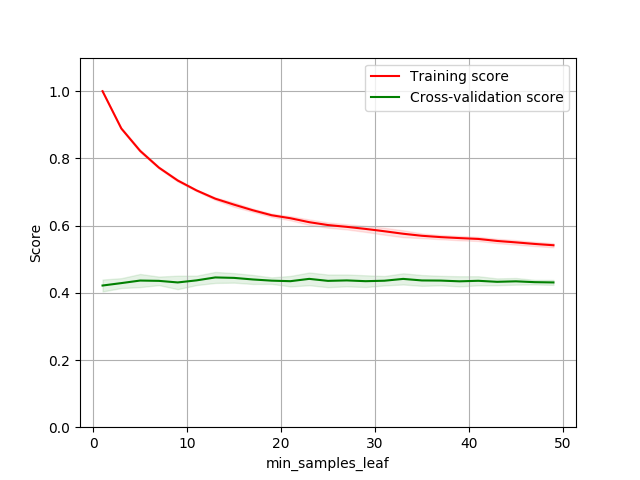
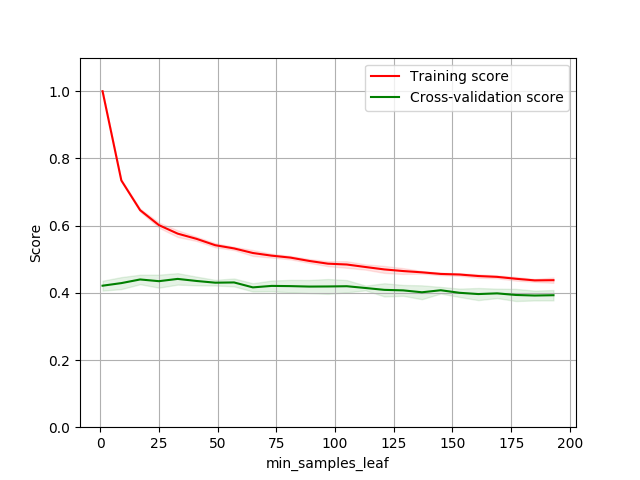
sfdf

diff --git a/HW_1/DT_HW1.py b/HW_1/DT_HW1.py
@@ -527,7 +527,7 @@ def decision_tree_vld_curve_1(dataset_name, X_train, y_train, min_samples_leaf=2
     start_time = time.time()
     cv = ShuffleSplit(n_splits=10, test_size=0.2, random_state=0)
     # cv = 10
-    param_range = range(1, 50, 2)
+    param_range = range(1, 200, 8)
     train_scores, test_scores = validation_curve(clf, X_train, y_train,
                                                  param_name="min_samples_leaf",
                                                  param_range=param_range,
@@ -570,7 +570,7 @@ def boost_dt_vld_curve_1(dataset_name, X_train, y_train, min_samples_leaf=25, n_
     # cv = None
     param_range = []
     alter_list = []
-    for i in range(1, 50, 2):
+    for i in range(1, 200, 8):
         param_range.append(tree.DecisionTreeClassifier(criterion='gini', min_samples_leaf=i))
         alter_list.append(i)
     # print param_range
@@ -616,7 +616,7 @@ def ann_vld_curve_1(dataset_name, X_train, y_train, hidden_layer_sizes=(5, ), ma
     # cv = None
     param_range = []
     alter_list = []
-    for i in range(1,120,5):
+    for i in range(1,1000,50):
         param_range.append((i,))
         alter_list.append(i)
     train_scores, test_scores = validation_curve(clf, X_train, y_train,
@@ -638,7 +638,7 @@ def ann_vld_curve_2(dataset_name, X_train, y_train, hidden_layer_sizes=(5, ), ma
     start_time = time.time()
     cv = ShuffleSplit(n_splits=10, test_size=0.2, random_state=0)
     # cv = 5
-    param_range = np.linspace(0.00001, 10, 25)
+    param_range = np.linspace(0.00001, 50, 25)
     train_scores, test_scores = validation_curve(clf, X_train, y_train,
                                                  param_name="alpha",
                                                  param_range=param_range,
@@ -765,16 +765,16 @@ if __name__=="__main__":
     # svm_learning_curve_epoch_pre(set1_name, X_train, y_train)
 
     # parameter validation curve
-    decision_tree_vld_curve_1(set1_name, X_train, y_train)
-    decision_tree_vld_curve_2(set1_name, X_train, y_train)
-    boost_dt_vld_curve_1(set1_name, X_train, y_train)
-    boost_dt_vld_curve_2(set1_name, X_train, y_train)
+    # decision_tree_vld_curve_1(set1_name, X_train, y_train)
+    # decision_tree_vld_curve_2(set1_name, X_train, y_train)
+    # boost_dt_vld_curve_1(set1_name, X_train, y_train)
+    # boost_dt_vld_curve_2(set1_name, X_train, y_train)
     ann_vld_curve_1(set1_name, X_train, y_train)
     ann_vld_curve_2(set1_name, X_train, y_train)
-    knn_vld_curve_1(set1_name, X_train, y_train)
-    knn_vld_curve_2(set1_name, X_train, y_train)
-    svm_vld_curve_1(set1_name, X_train, y_train)
-    svm_vld_curve_2(set1_name, X_train, y_train)
+    # knn_vld_curve_1(set1_name, X_train, y_train)
+    # knn_vld_curve_2(set1_name, X_train, y_train)
+    # svm_vld_curve_1(set1_name, X_train, y_train)
+    # svm_vld_curve_2(set1_name, X_train, y_train)
 
     # # post-parameter adjustment
     # decision_tree_learning_curve_size_post(set1_name, X_train, y_train)
@@ -812,16 +812,16 @@ if __name__=="__main__":
     # svm_learning_curve_epoch_pre(set2_name, X2_train, y2_train)
 
     # parameter validation curve
-    decision_tree_vld_curve_1(set2_name, X2_train, y2_train)
-    decision_tree_vld_curve_2(set2_name, X2_train, y2_train)
-    boost_dt_vld_curve_1(set2_name, X2_train, y2_train)
-    boost_dt_vld_curve_2(set2_name, X2_train, y2_train)
+    # decision_tree_vld_curve_1(set2_name, X2_train, y2_train)
+    # decision_tree_vld_curve_2(set2_name, X2_train, y2_train)
+    # boost_dt_vld_curve_1(set2_name, X2_train, y2_train)
+    # boost_dt_vld_curve_2(set2_name, X2_train, y2_train)
     ann_vld_curve_1(set2_name, X2_train, y2_train)
     ann_vld_curve_2(set2_name, X2_train, y2_train)
-    knn_vld_curve_1(set2_name, X2_train, y2_train)
-    knn_vld_curve_2(set2_name, X2_train, y2_train)
-    svm_vld_curve_1(set2_name, X2_train, y2_train)
-    svm_vld_curve_2(set2_name, X2_train, y2_train)
+    # knn_vld_curve_1(set2_name, X2_train, y2_train)
+    # knn_vld_curve_2(set2_name, X2_train, y2_train)
+    # svm_vld_curve_1(set2_name, X2_train, y2_train)
+    # svm_vld_curve_2(set2_name, X2_train, y2_train)
 
 
 
